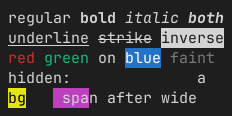
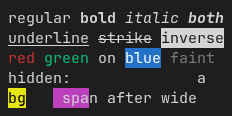
fix(render): fit glyph heights to whole pixel rows
x/image does not implement hinting: font.HintingVertical and HintingFull
leave outlines untouched (Full only rounds advances), so every glyph's
baseline, x-height and cap-height edges landed at an arbitrary fraction of a
pixel row and rendered as a soft grey row. Wrap the primary family's faces
in gridFace, which rasterises the same outlines after a piecewise-linear
vertical remap that puts the x-height, cap height and descender depth of
the family on whole pixels and flattens round overshoot onto them (the
vertical-only 'light' fit of FreeType's auto-hinter). x coordinates,
advances and metrics are unchanged; fallback fonts are untouched.

Goldens regenerated: same geometry, crisper tops and bottoms of round
letters.

diff --git a/internal/render/font/gridfit.go b/internal/render/font/gridfit.go
@@ -1,0 +1,172 @@
+package font
+
+import (
+	"image"
+	"image/draw"
+	"math"
+
+	xfont "golang.org/x/image/font"
+	"golang.org/x/image/font/opentype"
+	"golang.org/x/image/font/sfnt"
+	"golang.org/x/image/math/fixed"
+	"golang.org/x/image/vector"
+)
+
+// overshootEm is the largest round-glyph overshoot (as a fraction of the em)
+// that grid fitting flattens onto the x-height, cap-height or baseline.
+const overshootEm = 0.015
+
+// knot maps a height above the baseline (px, y up) in the unfitted outline to
+// its fitted height.
+type knot struct{ from, to float64 }
+
+// gridFace draws a font like opentype.Face but first fits glyph heights to
+// whole pixel rows. x/image does not implement TrueType or CFF hinting (its
+// font.HintingVertical/Full options leave outlines untouched), so without
+// this the baseline, x-height and cap-height edges of every glyph land at an
+// arbitrary fraction of a pixel row and render as a soft grey row.
+//
+// The fit is a piecewise-linear remap of outline y coordinates: the baseline
+// stays at 0, the x-height and cap-height (and the descender depth of "p")
+// are rounded to whole pixels, and round-glyph overshoot beside those zones
+// is flattened onto them, like the vertical "light" mode of FreeType's
+// auto-hinter. x coordinates, advances and metrics are not changed.
+type gridFace struct {
+	xfont.Face // the unfitted face: metrics, advances and kerning
+	font       *opentype.Font
+	scale      fixed.Int26_6
+	knots      []knot // ascending in from; heights outside shift by the end knots
+
+	buf  sfnt.Buffer
+	rast vector.Rasterizer
+	mask image.Alpha
+}
+
+// newGridFace wraps plain, which must be a HintingNone opentype face of font
+// at sizePx, with grid fitting. It returns plain unchanged if the size is too
+// small for the zones to be separate or the font lacks the needed metrics.
+func newGridFace(plain xfont.Face, font *opentype.Font, sizePx float64) xfont.Face {
+	g := &gridFace{Face: plain, font: font, scale: fixed.Int26_6(0.5 + sizePx*64)}
+	m, err := font.Metrics(&g.buf, g.scale, xfont.HintingNone)
+	if err != nil {
+		return plain
+	}
+	xh, capH := float64(m.XHeight)/64, float64(m.CapHeight)/64
+	if xh < 2 || capH < xh+1 {
+		return plain
+	}
+	over := overshootEm * sizePx
+	XH, CAP := math.Round(xh), math.Round(capH)
+	g.knots = []knot{{-over, 0}, {0, 0}, {xh, XH}, {xh + over, XH}, {capH, CAP}, {capH + over, CAP}}
+	// The descender zone: its depth is that of "p".
+	if idx, err := font.GlyphIndex(&g.buf, 'p'); err == nil && idx != 0 {
+		if b, _, err := font.GlyphBounds(&g.buf, idx, g.scale, xfont.HintingNone); err == nil {
+			if depth := float64(b.Max.Y) / 64; depth > over+1 {
+				g.knots = append([]knot{{-depth, -math.Round(depth)}}, g.knots...)
+			}
+		}
+	}
+	return g
+}
+
+// fitY returns y, a y-down outline coordinate, with its height fitted.
+func (g *gridFace) fitY(y fixed.Int26_6) fixed.Int26_6 {
+	up := -float64(y) / 64
+	k := g.knots
+	var fitted float64
+	switch {
+	case up <= k[0].from:
+		fitted = up + k[0].to - k[0].from
+	case up >= k[len(k)-1].from:
+		fitted = up + k[len(k)-1].to - k[len(k)-1].from
+	default:
+		i := 1
+		for up > k[i].from {
+			i++
+		}
+		a, b := k[i-1], k[i]
+		fitted = a.to + (up-a.from)*(b.to-a.to)/(b.from-a.from)
+	}
+	return fixed.Int26_6(math.Round(-fitted * 64))
+}
+
+// outline returns the fitted outline and advance of r. ok is false if the
+// font has no glyph for r or loading it fails.
+func (g *gridFace) outline(r rune) (segs sfnt.Segments, advance fixed.Int26_6, ok bool) {
+	idx, err := g.font.GlyphIndex(&g.buf, r)
+	if err != nil || idx == 0 {
+		return nil, 0, false
+	}
+	// GlyphAdvance first: LoadGlyph's segments are invalidated by buffer reuse.
+	if advance, err = g.font.GlyphAdvance(&g.buf, idx, g.scale, xfont.HintingNone); err != nil {
+		return nil, 0, false
+	}
+	if segs, err = g.font.LoadGlyph(&g.buf, idx, g.scale, nil); err != nil {
+		return nil, 0, false
+	}
+	for i := range segs {
+		for j := range segs[i].Args {
+			segs[i].Args[j].Y = g.fitY(segs[i].Args[j].Y)
+		}
+	}
+	return segs, advance, true
+}
+
+// GlyphBounds satisfies the font.Face interface.
+func (g *gridFace) GlyphBounds(r rune) (bounds fixed.Rectangle26_6, advance fixed.Int26_6, ok bool) {
+	segs, advance, ok := g.outline(r)
+	if !ok {
+		return g.Face.GlyphBounds(r)
+	}
+	return segs.Bounds(), advance, true
+}
+
+// Glyph satisfies the font.Face interface. It rasterises like
+// opentype.Face.Glyph, with sub-pixel x placement from dot.X.
+func (g *gridFace) Glyph(dot fixed.Point26_6, r rune) (dr image.Rectangle, mask image.Image, maskp image.Point, advance fixed.Int26_6, ok bool) {
+	segs, advance, ok := g.outline(r)
+	if !ok {
+		return g.Face.Glyph(dot, r)
+	}
+	b := segs.Bounds().Add(dot)
+	dr = image.Rect(b.Min.X.Floor(), b.Min.Y.Floor(), b.Max.X.Ceil(), b.Max.Y.Ceil())
+	width, height := dr.Dx(), dr.Dy()
+	if width < 0 || height < 0 {
+		return image.Rectangle{}, nil, image.Point{}, 0, false
+	}
+	biasX := dot.X - fixed.Int26_6(dr.Min.X<<6)
+	biasY := dot.Y - fixed.Int26_6(dr.Min.Y<<6)
+
+	n := width * height
+	if cap(g.mask.Pix) < n {
+		g.mask.Pix = make([]uint8, 2*n)
+	}
+	g.mask.Pix = g.mask.Pix[:n]
+	g.mask.Stride = width
+	g.mask.Rect = image.Rect(0, 0, width, height)
+
+	px := func(a fixed.Point26_6) (float32, float32) {
+		return float32(a.X+biasX) / 64, float32(a.Y+biasY) / 64
+	}
+	g.rast.Reset(width, height)
+	g.rast.DrawOp = draw.Src
+	for _, s := range segs {
+		switch s.Op {
+		case sfnt.SegmentOpMoveTo:
+			g.rast.MoveTo(px(s.Args[0]))
+		case sfnt.SegmentOpLineTo:
+			g.rast.LineTo(px(s.Args[0]))
+		case sfnt.SegmentOpQuadTo:
+			x1, y1 := px(s.Args[0])
+			x2, y2 := px(s.Args[1])
+			g.rast.QuadTo(x1, y1, x2, y2)
+		case sfnt.SegmentOpCubeTo:
+			x1, y1 := px(s.Args[0])
+			x2, y2 := px(s.Args[1])
+			x3, y3 := px(s.Args[2])
+			g.rast.CubeTo(x1, y1, x2, y2, x3, y3)
+		}
+	}
+	g.rast.Draw(&g.mask, g.mask.Bounds(), image.Opaque, image.Point{})
+	return dr, &g.mask, g.mask.Rect.Min, advance, true
+}

diff --git a/internal/render/font/font_test.go b/internal/render/font/font_test.go
@@ -8,6 +8,7 @@ import (
 	"math"
 	"testing"
 
+	xfont "golang.org/x/image/font"
 	"golang.org/x/image/math/fixed"
 )
 
@@ -421,4 +422,89 @@ func TestStylesShareAdvance(t *testing.T) {
 			}
 		}
 	}
+}
+
+// gridFit tests: the fitted outline has its x-height, cap height, baseline
+// and descender edges on whole pixel rows, round overshoot flattened.
+
+func TestGridFitSnapsHeights(t *testing.T) {
+	s := mustDefault(t)
+	for _, size := range []float64{11, 13.333, 15, 16.667, 20, 26.667} {
+		f, err := s.Face(false, false, size)
+		if err != nil {
+			t.Fatal(err)
+		}
+		whole := func(name string, v fixed.Int26_6) {
+			if v&63 != 0 {
+				t.Errorf("size %v: %s = %v px, want a whole pixel", size, name, float64(v)/64)
+			}
+		}
+		top := func(r rune) fixed.Int26_6 { b, _, _ := f.GlyphBounds(r); return b.Min.Y }
+		bottom := func(r rune) fixed.Int26_6 { b, _, _ := f.GlyphBounds(r); return b.Max.Y }
+		whole("top of x", top('x'))
+		whole("top of o", top('o'))
+		whole("top of H", top('H'))
+		whole("bottom of x", bottom('x'))
+		whole("bottom of o", bottom('o'))
+		whole("bottom of p", bottom('p'))
+		if top('o') != top('x') {
+			t.Errorf("size %v: o overshoots x-height: %v vs %v", size, top('o'), top('x'))
+		}
+	}
+}
+
+// Grid fitting moves outlines vertically only: advances, and the x extent of
+// a glyph, match the unfitted face.
+func TestGridFitKeepsHorizontalMetrics(t *testing.T) {
+	fitted := mustDefault(t)
+	plain := mustDefault(t)
+	plain.SetGridFit(false)
+	a, _ := fitted.Face(false, false, 15)
+	b, _ := plain.Face(false, false, 15)
+	for r := rune('!'); r <= '~'; r++ {
+		ba, adva, _ := a.GlyphBounds(r)
+		bb, advb, _ := b.GlyphBounds(r)
+		if adva != advb || ba.Min.X != bb.Min.X || ba.Max.X != bb.Max.X {
+			t.Errorf("%q: fitted x extent/advance %v %v, plain %v %v", r, ba, adva, bb, advb)
+		}
+	}
+}
+
+// The fitted mask must not leak between glyphs: drawing the same glyph twice
+// (with another between) yields identical coverage, and the top row of an
+// 'x' is fully covered where the unfitted face leaves a partial row.
+func TestGridFitMask(t *testing.T) {
+	s := mustDefault(t)
+	f, _ := s.Face(false, false, 15)
+	coverage := func(r rune) []uint8 {
+		_, mask, _, _, ok := f.Glyph(fixed.P(0, 20), r)
+		if !ok {
+			t.Fatalf("no glyph for %q", r)
+		}
+		a := mask.(*image.Alpha)
+		return append([]uint8(nil), a.Pix...)
+	}
+	first := coverage('x')
+	coverage('W')
+	second := coverage('x')
+	if !bytes.Equal(first, second) {
+		t.Error("mask of x changed between calls")
+	}
+	dr, mask, _, _, _ := f.Glyph(fixed.P(0, 20), 'x')
+	a := mask.(*image.Alpha)
+	maxTop := uint8(0)
+	for x := 0; x < dr.Dx(); x++ {
+		maxTop = max(maxTop, a.Pix[x])
+	}
+	if maxTop < 200 {
+		t.Errorf("top row of fitted x has max coverage %d, want a crisp edge", maxTop)
+	}
+	if _, ok := mustGlyphOK(f, 0x10FFFF); ok {
+		t.Error("glyph reported for an unmapped rune")
+	}
+}
+
+func mustGlyphOK(f xfont.Face, r rune) (image.Rectangle, bool) {
+	dr, _, _, _, ok := f.Glyph(fixed.P(0, 20), r)
+	return dr, ok
 }

diff --git a/internal/render/font/font.go b/internal/render/font/font.go
@@ -63,6 +63,8 @@ type Set struct {
 
 	mu    sync.Mutex
 	faces map[faceKey]xfont.Face
+	// gridOff disables grid fitting of primary-family faces (see gridFace).
+	gridOff bool
 }
 
 // Default returns a new Set backed by the embedded JetBrains Mono fonts with
@@ -160,8 +162,20 @@ func (s *Set) face(font int, sizePx float64) (xfont.Face, error) {
 	if err != nil {
 		return nil, fmt.Errorf("font: new %s face at %vpx: %w", name, sizePx, err)
 	}
+	if font < int(styleCount) && !s.gridOff {
+		f = newGridFace(f, parsed, sizePx)
+	}
 	s.faces[k] = f
 	return f, nil
+}
+
+// SetGridFit turns grid fitting of the primary family's glyph heights on or
+// off (on by default) and drops cached faces. It exists to compare renderings.
+func (s *Set) SetGridFit(on bool) {
+	s.mu.Lock()
+	defer s.mu.Unlock()
+	s.gridOff = !on
+	s.faces = make(map[faceKey]xfont.Face)
 }
 
 // fallbackOrPrimary returns the parsed font and display name for a faceKey
